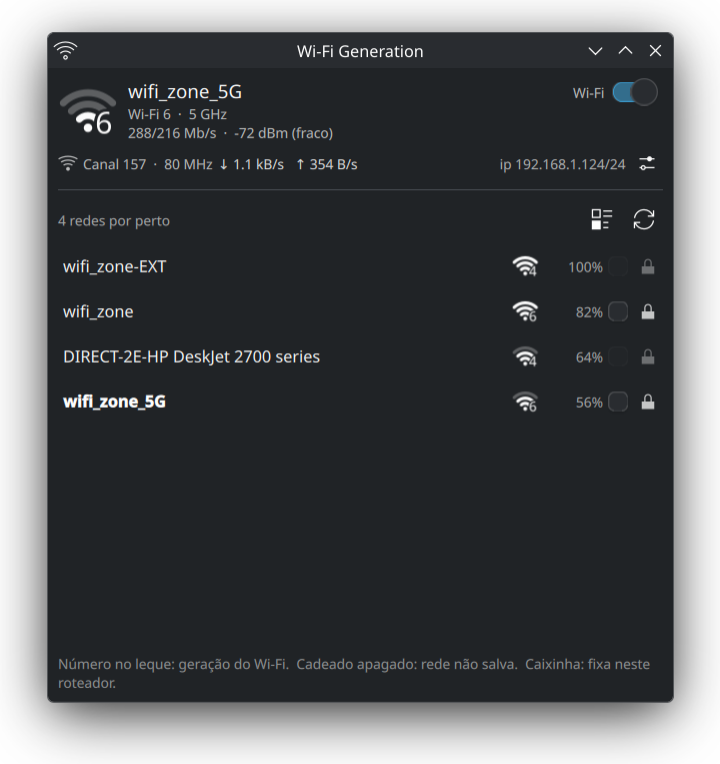
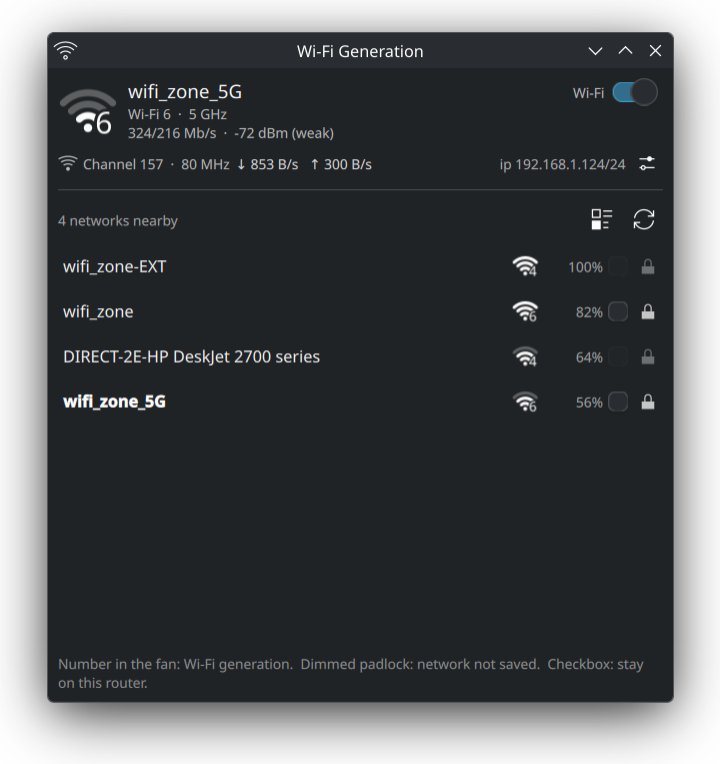
docs: três capturas para a loja, em inglês, e a receita de tirá-las
A loja é internacional e o anúncio está em inglês; captura em português
obrigaria o leitor a traduzir a tela para entender o que vê. Basta abrir com
LANGUAGE=en_US, e o `spectacle -a` pega só a janela, sem levar junto a área
de trabalho de quem fotografa.

A terceira mostra o modo dos roteadores e repetidores: quatro rádios
anunciando o mesmo nome, em ordem alfabética e do mais forte para o mais
fraco, cada um com o seu endereço. Ela depende de um clique que não existe em
captura automática, então fica escrita a receita: cópia do pacote com o modo
ligado e outro Id, instalar, fotografar, desinstalar — sem encostar no pacote
de verdade.

diff --git a/PUBLICAR.md b/PUBLICAR.md
@@ -27,12 +27,30 @@ textos e as capturas ficam prontos aqui e o clique final é seu:
 ## Capturas
 
 - `screenshots/01-tray.png` — o ícone na bandeja, entre os vizinhos.
-- `screenshots/02-popup.png` — a janela aberta, com a lista de redes.
+- `screenshots/02-popup.png` — a janela aberta, uma linha por rede.
+- `screenshots/03-repeaters.png` — o modo que mostra roteadores e
+  repetidores: quatro rádios anunciando `wifi_zone`, em ordem alfabética e do
+  mais forte para o mais fraco, cada um com o seu endereço.
 
-A segunda foi refeita nesta versão. A anterior mostrava, sem querer, o **IP
-público da máquina** numa dica aberta — atirar isso numa loja pública é
-diferente de mostrá-lo na própria tela. Vale conferir isso em toda captura
-nova: dica aberta, endereço de saída e nome de rede vizinha.
+**Em inglês, de propósito.** A loja é internacional e o anúncio é escrito em
+inglês; captura em português obrigaria o leitor a traduzir a tela para
+entender o que está vendo. Basta abrir com o idioma trocado:
+
+```bash
+LANGUAGE=en_US LANG=en_US.UTF-8 plasmawindowed com.henrique.wifigeracao
+spectacle -a -b -n -o janela.png       # -a captura só a janela ativa
+```
+
+A terceira precisa do modo ligado, que só existe depois de um clique. Para
+tirá-la sem depender disso, copie `package/`, troque `mostrarTodos` para
+`true` e o `Id` do `metadata.json` para um nome próprio, instale com
+`kpackagetool6 --type Plasma/Applet --install`, fotografe e **desinstale**.
+Nada disso encosta no pacote de verdade.
+
+**Confira o que aparece na foto.** Uma captura anterior mostrava, sem querer,
+o **IP público da máquina** numa dica aberta — mostrá-lo na própria tela é uma
+coisa, publicá-lo numa loja indexada é outra, e não se desfaz. Antes de subir:
+dica aberta, endereço de saída, nome de rede vizinha.
 
 ---
 
